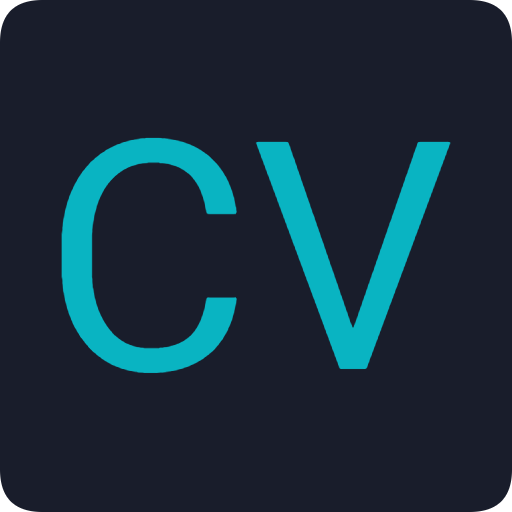
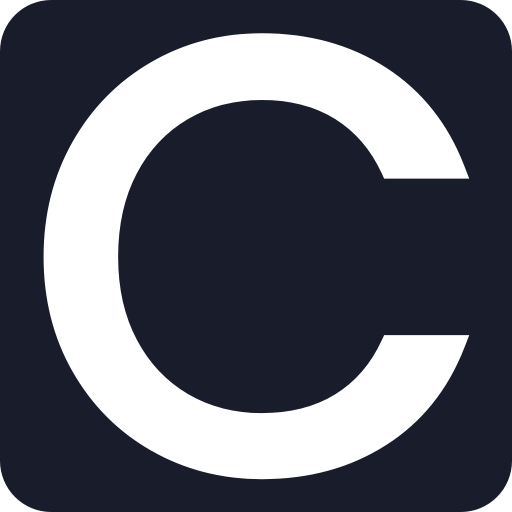
change

diff --git a/index.html b/index.html
@@ -12,6 +12,12 @@
     <link rel="preconnect" href="https://fonts.gstatic.com" crossorigin>
     <link rel="stylesheet" href="https://cdnjs.cloudflare.com/ajax/libs/font-awesome/5.15.4/css/all.min.css" integrity="sha512-1ycn6IcaQQ40/MKBW2W4Rhis/DbILU74C1vSrLJxCq57o941Ym01SwNsOMqvEBFlcgUa6xLiPY/NS5R+E6ztJQ==" crossorigin="anonymous" referrerpolicy="no-referrer" />
     <link href="https://fonts.googleapis.com/css2?family=Poppins:wght@400;500;600;700;800&display=swap" rel="stylesheet">
+
+    <link rel="apple-touch-icon" sizes="180x180" href="images/apple-touch-icon.png">
+    <link rel="icon" type="image/png" sizes="32x32" href="images/favicon-32x32.png">
+    <link rel="icon" type="image/png" sizes="16x16" href="images/favicon-16x16.png">
+    <link rel="manifest" href="manifest.json">
+
     <script src="Convertor.js"></script>
     <script src="jquery.js"></script>
     <script src="app.js"></script>
